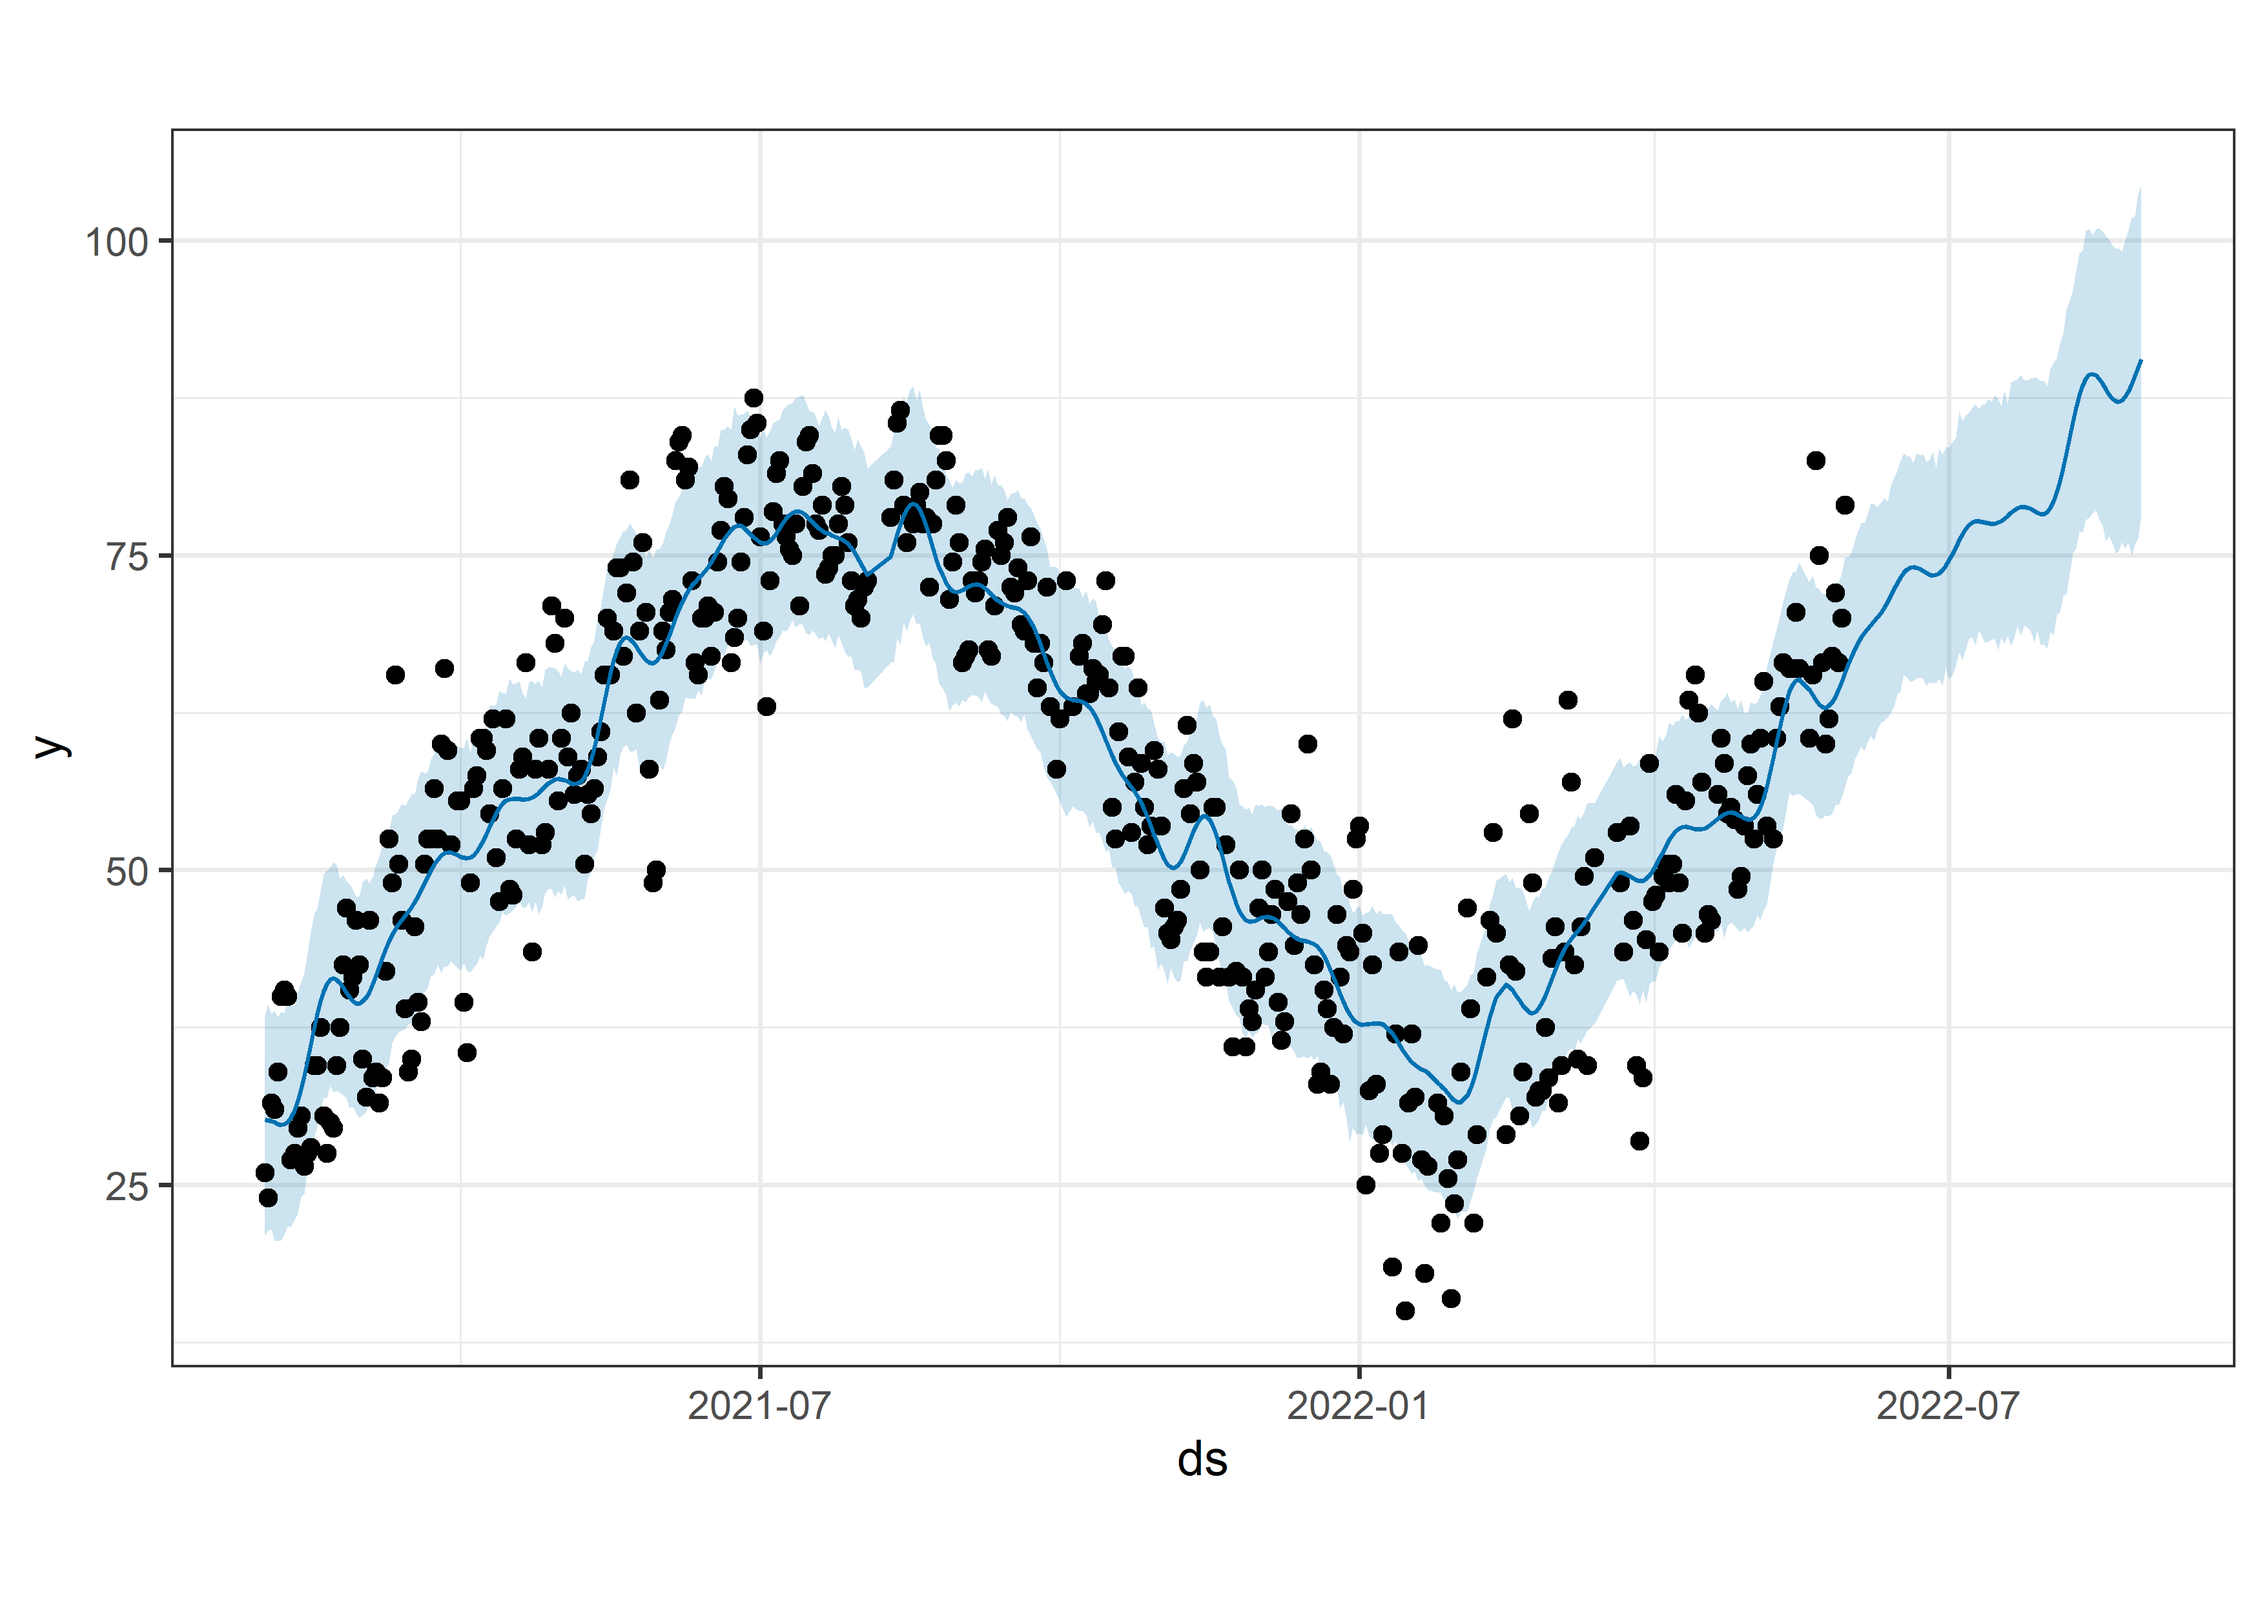
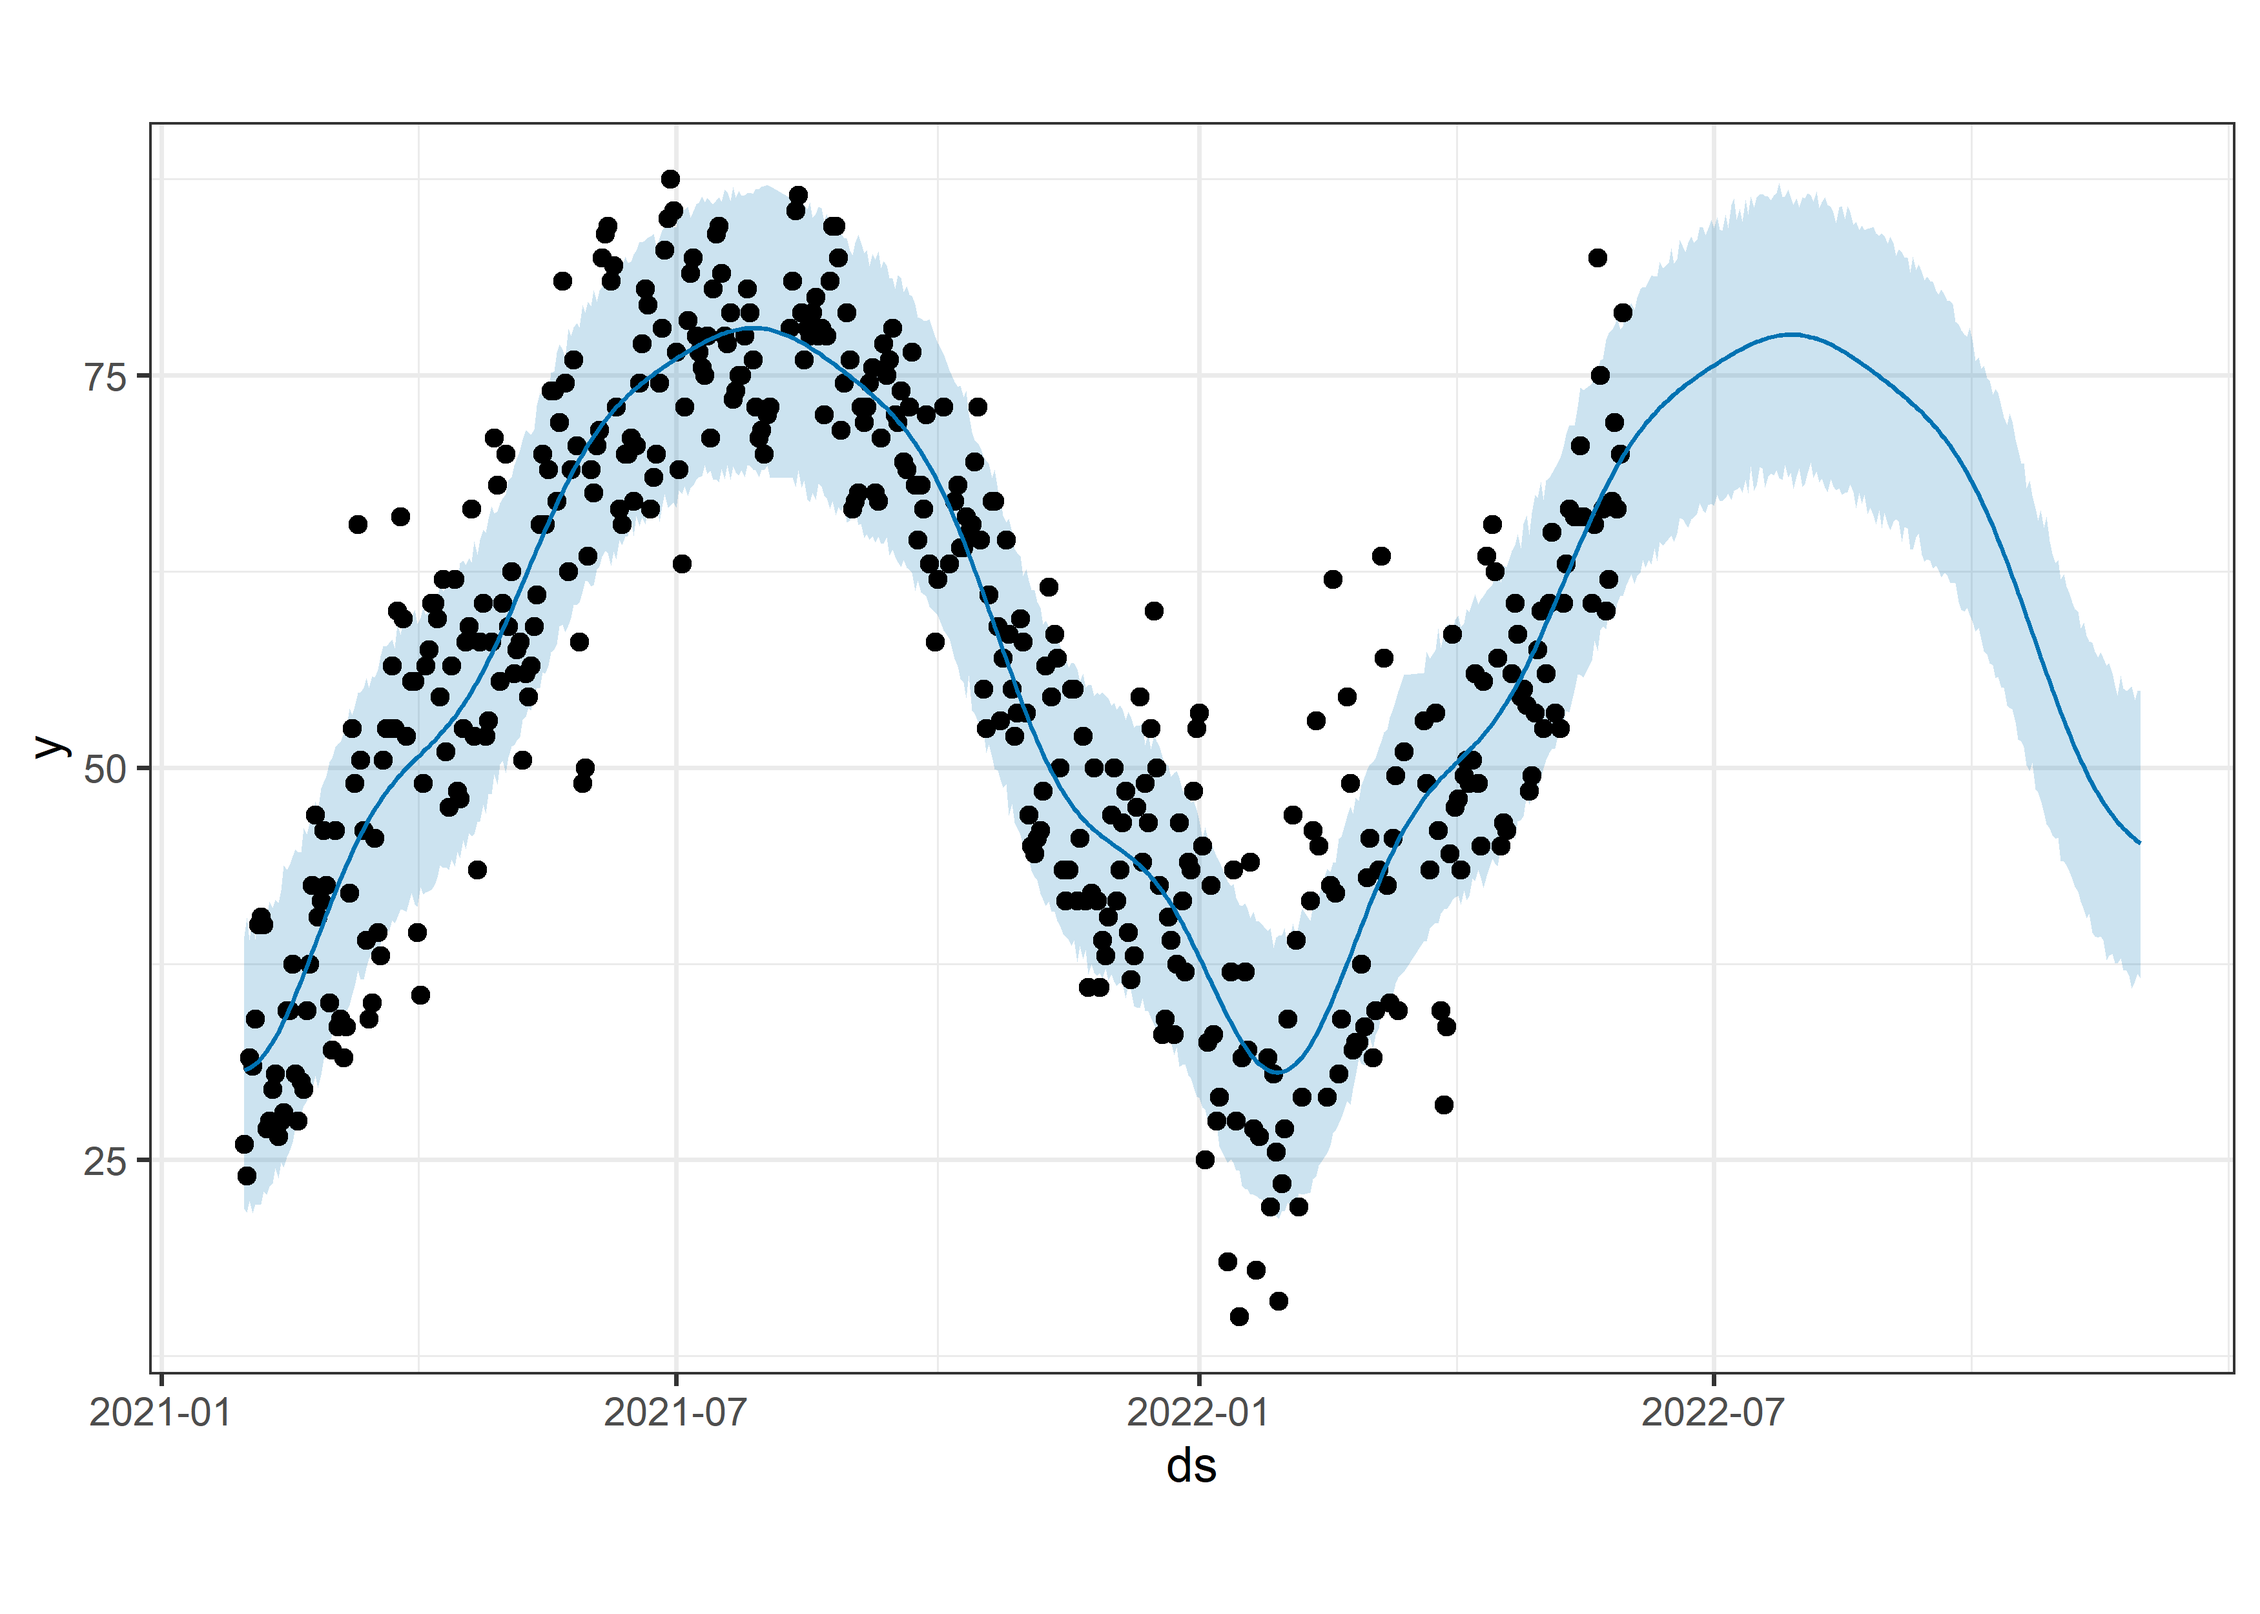
prophet improvement

diff --git a/12-20-22/Weather-Forecasts.md b/12-20-22/Weather-Forecasts.md
@@ -782,7 +782,7 @@ m <- prophet(nycseries %>% select(ds = date, y = observed_temp))
 
 ``` r
 m <- prophet(weekly.seasonality = FALSE)
-m <- add_seasonality(m, name='monthly', period=90, fourier.order=5)
+m <- add_seasonality(m, name='monthly', period=365, fourier.order=5)
 m <- fit.prophet(m, nycseries %>% select(ds = date, y = observed_temp))
 ```
 
@@ -790,7 +790,7 @@ m <- fit.prophet(m, nycseries %>% select(ds = date, y = observed_temp))
     ## Disabling daily seasonality. Run prophet with daily.seasonality=TRUE to override this.
 
 ``` r
-future <- make_future_dataframe(m, periods = 365/4)
+future <- make_future_dataframe(m, periods = 365/2)
 
 forecast <- predict(m, future)
 ```
